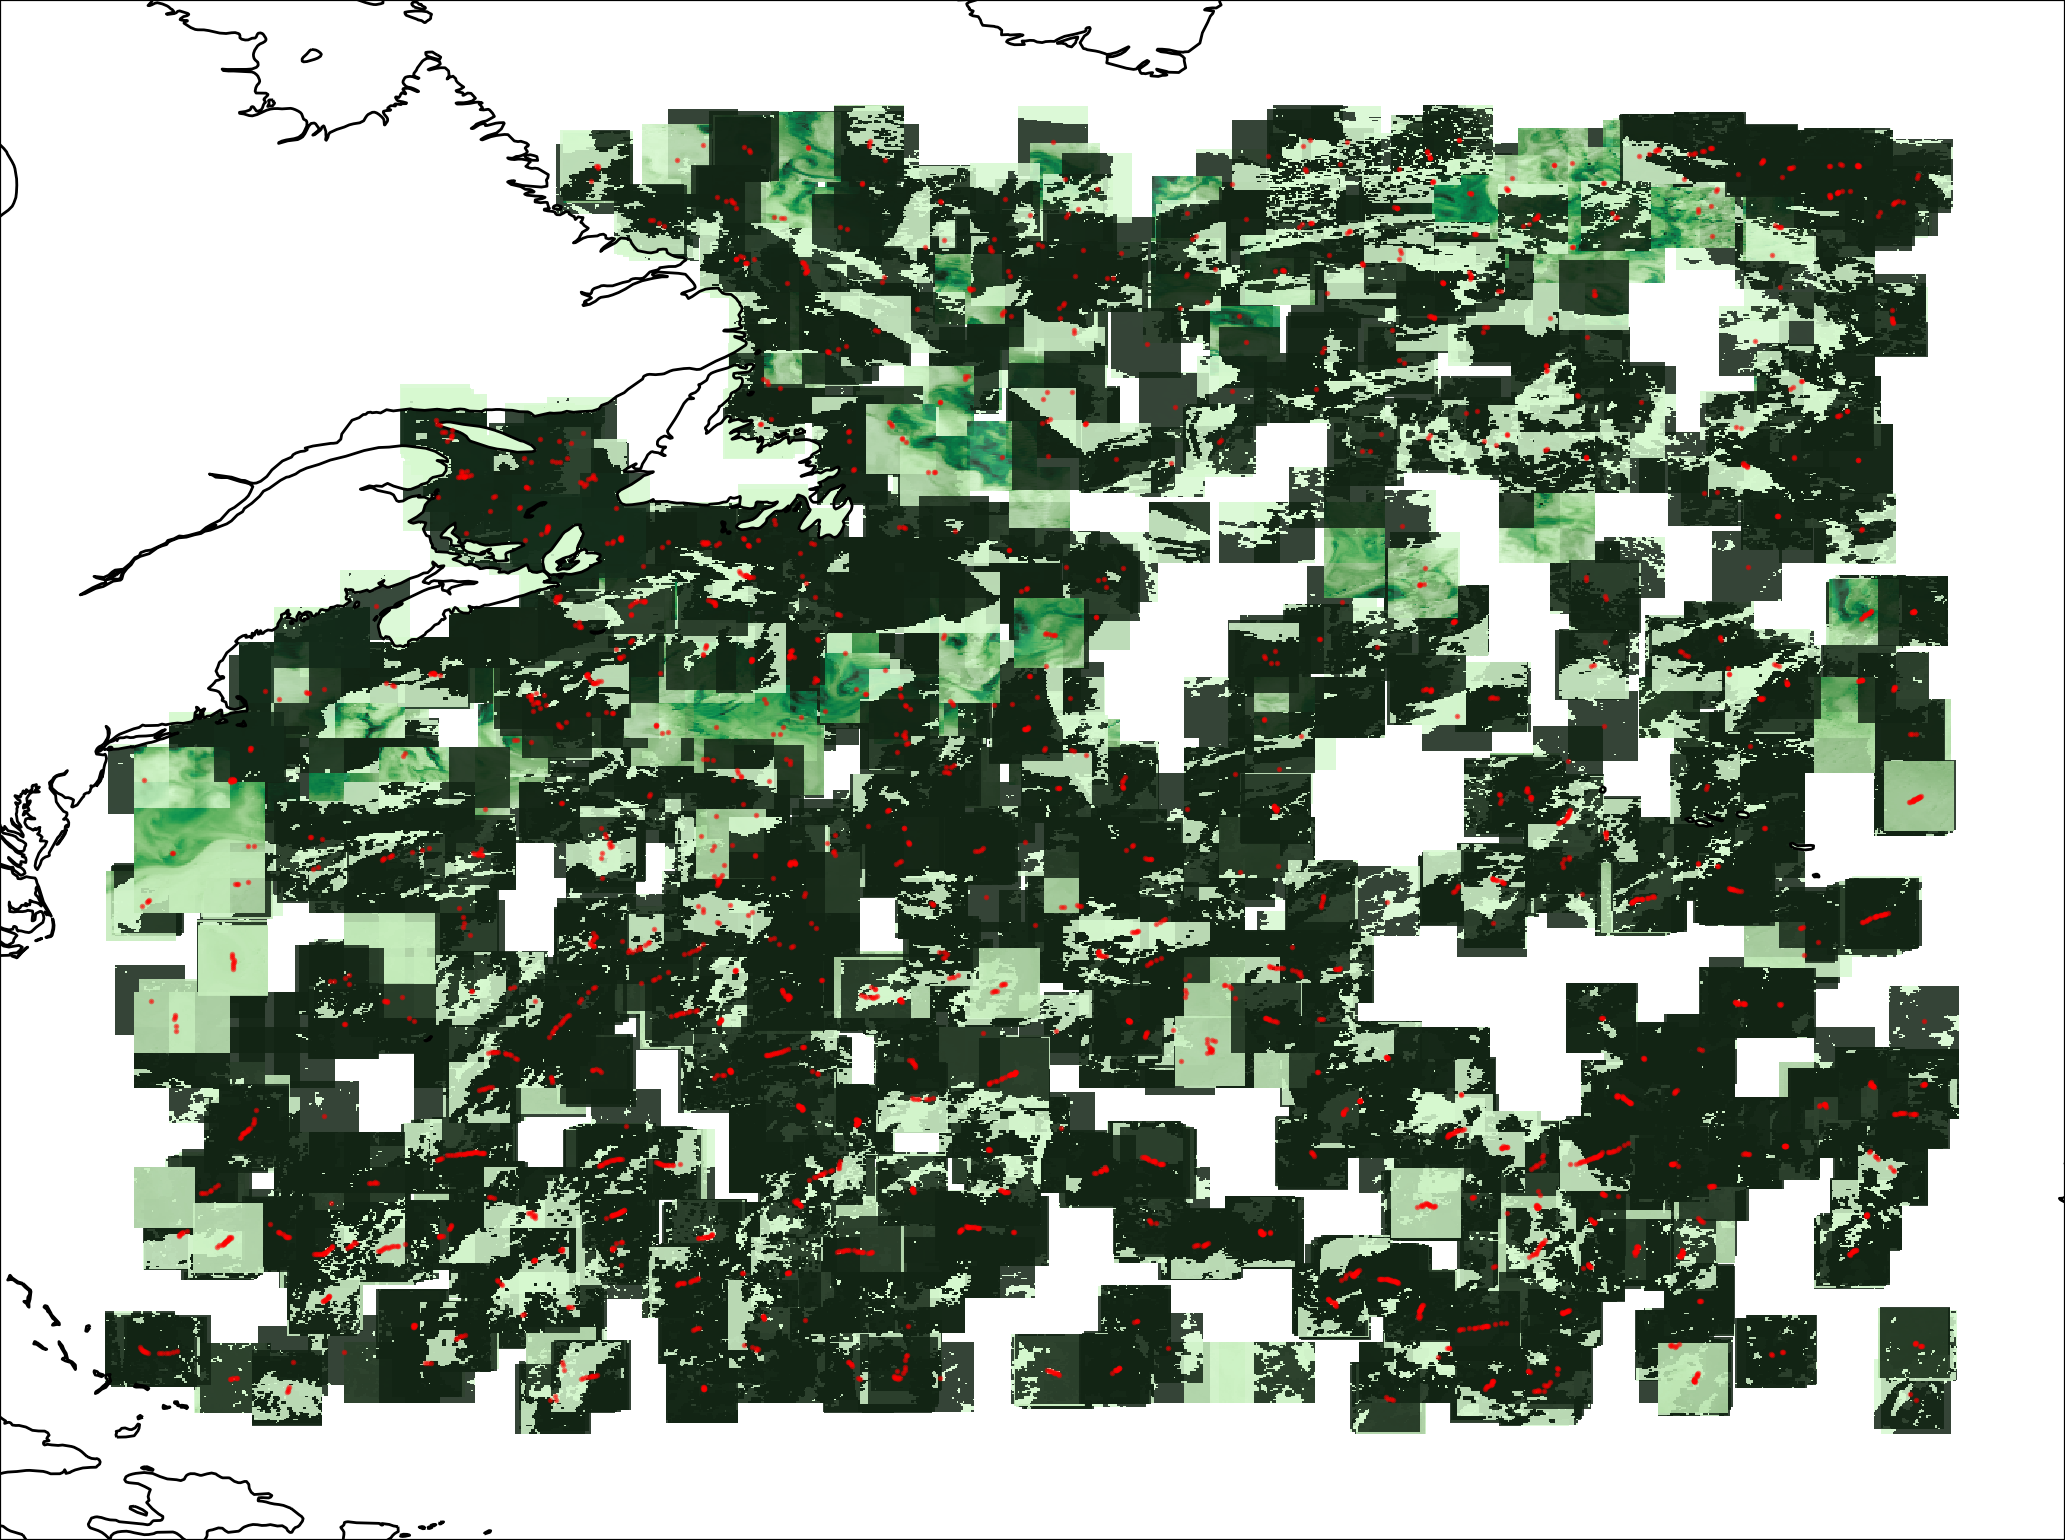
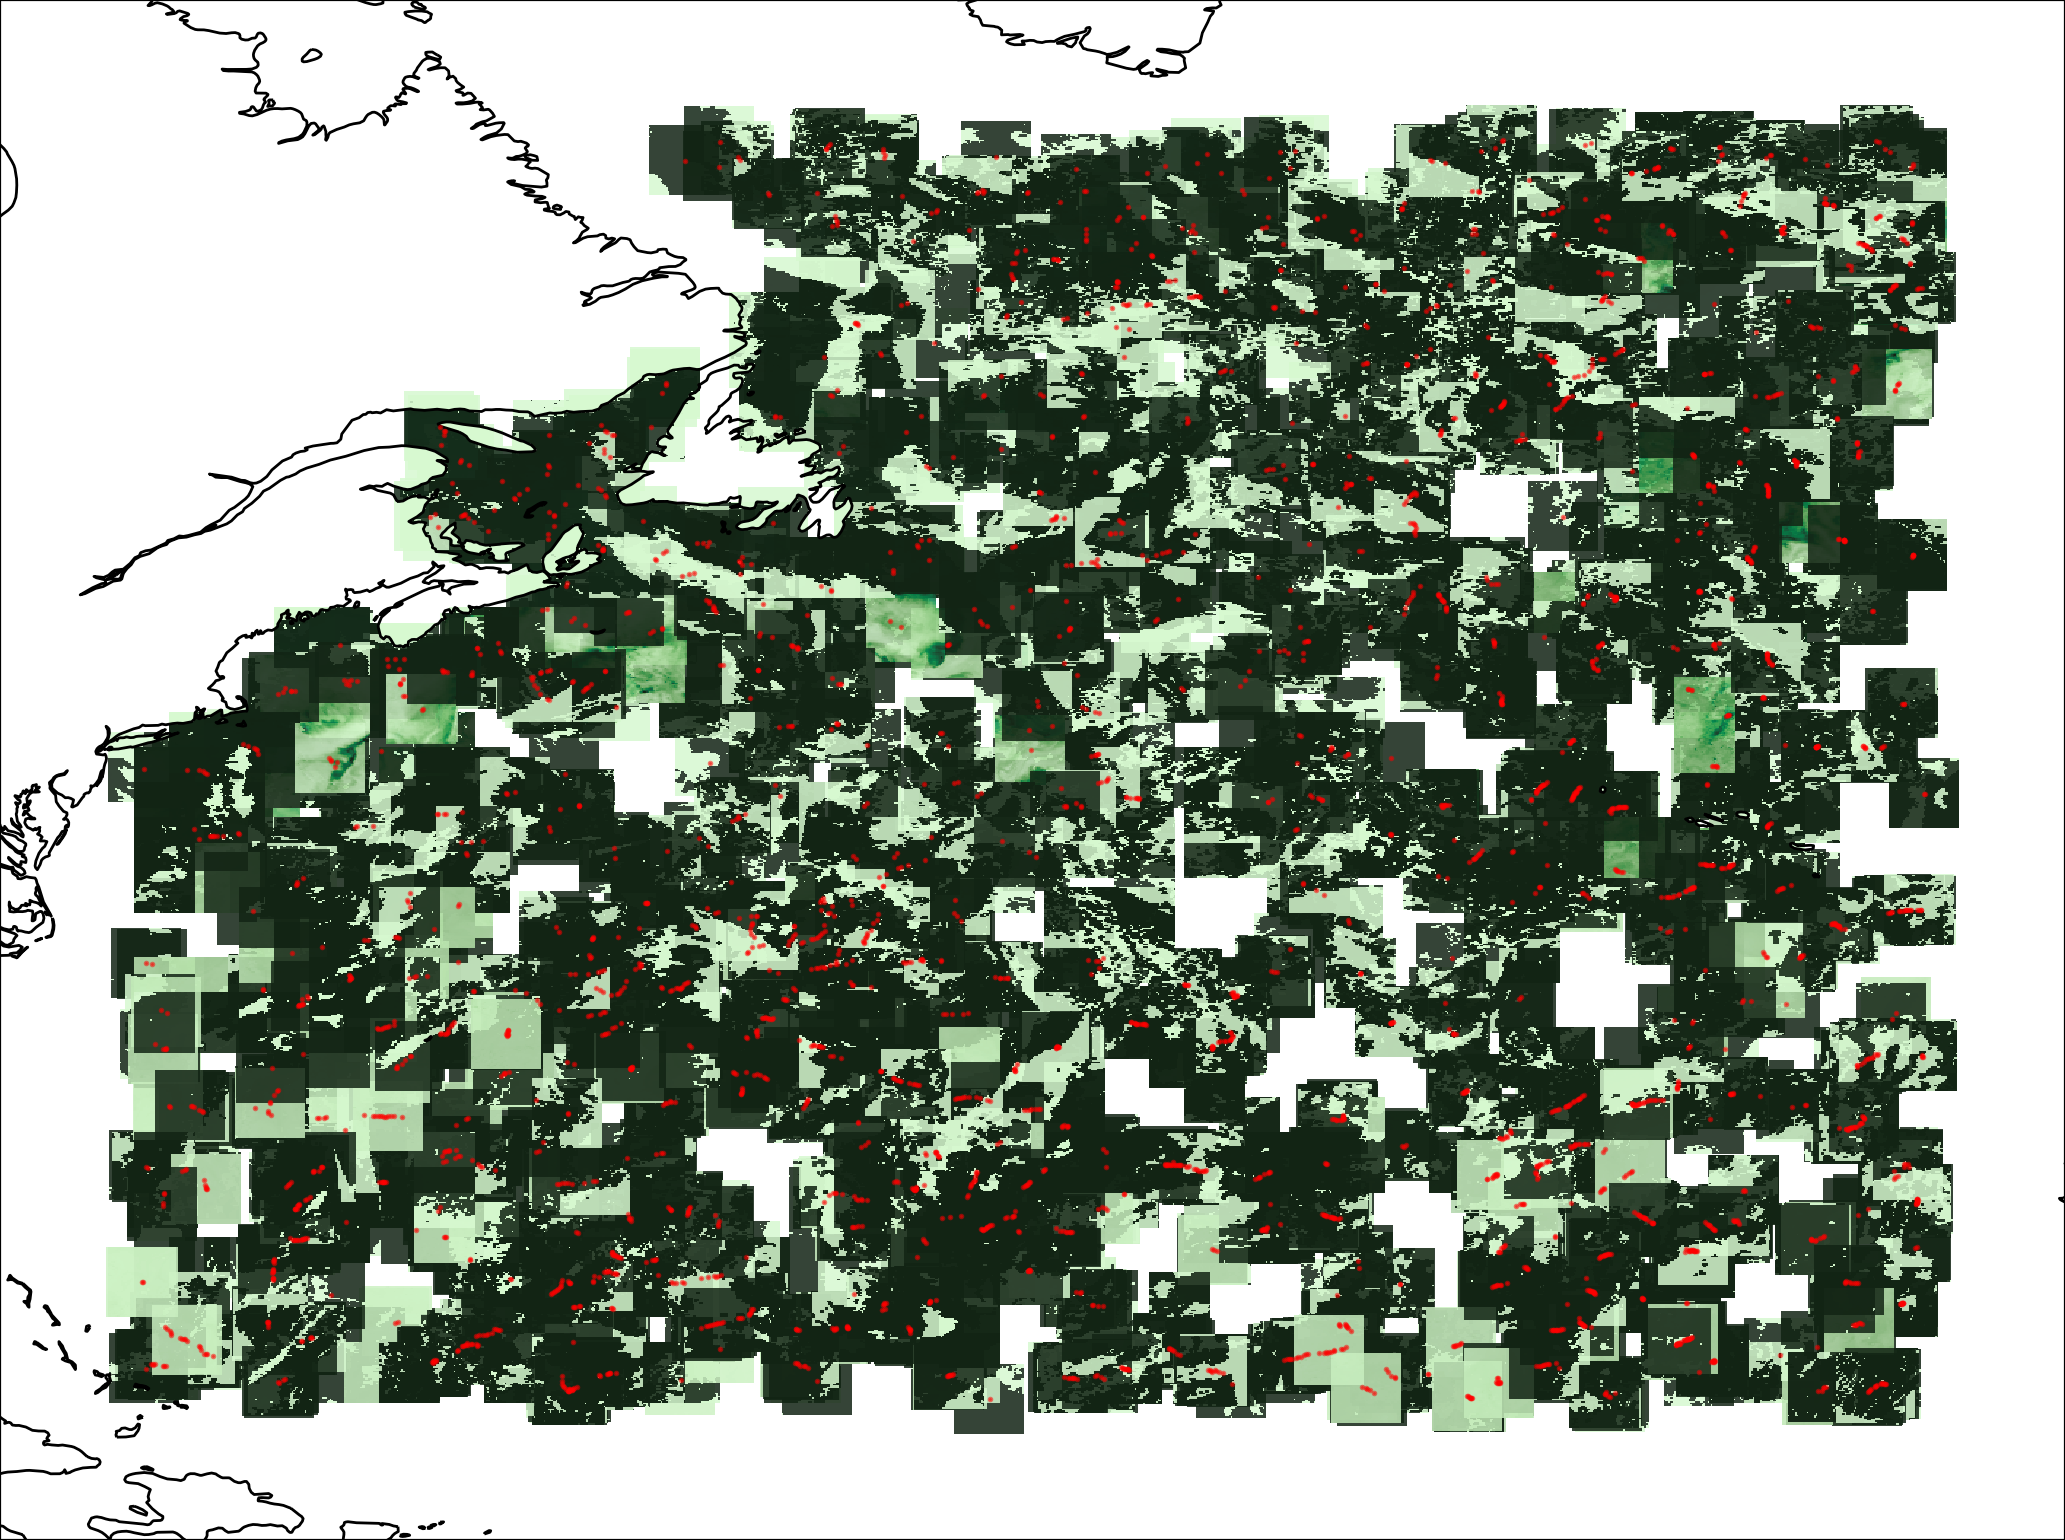
OCES5303: progress on assignment_03

diff --git a/report/report.tex b/report/report.tex
@@ -124,7 +124,7 @@
 
     Furthermore, we would expect the cyclonic eddies (counterclockwise) to have a cold core and the anticyclonic eddies (clockwise) to have a warm core. \cite{article:eddy_temperature}
 
-    \subsection{Filtering Images}
+    \subsection{Filtering Images} \label{sec:filtering_images}
 
     \begin{center}
         \begin{minipage}{.49\textwidth}
@@ -249,9 +249,20 @@
     Additionaly, the images are are in greyscale, with pixel values between 0 and 255.
     We'll scale these values before feeding them into our model, using a \verb|MinMaxScaler| to a range between 0 and 1.
 
-    \subsection{Masking}
+    \subsection{Applying Filtering}
 
-    \dots
+    As showed previously (\ref{sec:filtering_images}), we have a way to filter out ``corrupt'' images.
+
+    For SST, the reasoning for the corrupted images seems to be quite obvious, in that there's some interference from the land.
+    Considering there's also so few samples, it seems quite safe to remove these from our training samples, but we'll test multipile implementations.
+
+    However, for the CHLA images, we're filtering out approximately 92\% of the images, and removing these would most likely degrade the performance
+    of our model quite severely. There's other options, such as masking out the corrupt images, e.g. by filling them with zeros.
+    We could also add a new channel, which specifies if an image is corrupt or not, e.g. a channel where all the pixels are ones marks for corrupt CHLA images
+    and vice-versa for zeros. These approaches are also something we could do for the SST images.
+
+    We'll try various techniques and see which ones perform well on our data
+
 
     \section{Convolution Neural Network}
 
@@ -264,9 +275,20 @@
     \cite{enwiki:1349825931}
     \cite{dumoulin2016guide}
 
+    \subsection{Configuration}
+
+    \dots
 
 
+    \subsection{Model Selection}
 
+    \dots
+
+    \subsection{Loss}
+
+    \section{Results}
+
+    \dots
 
     
 